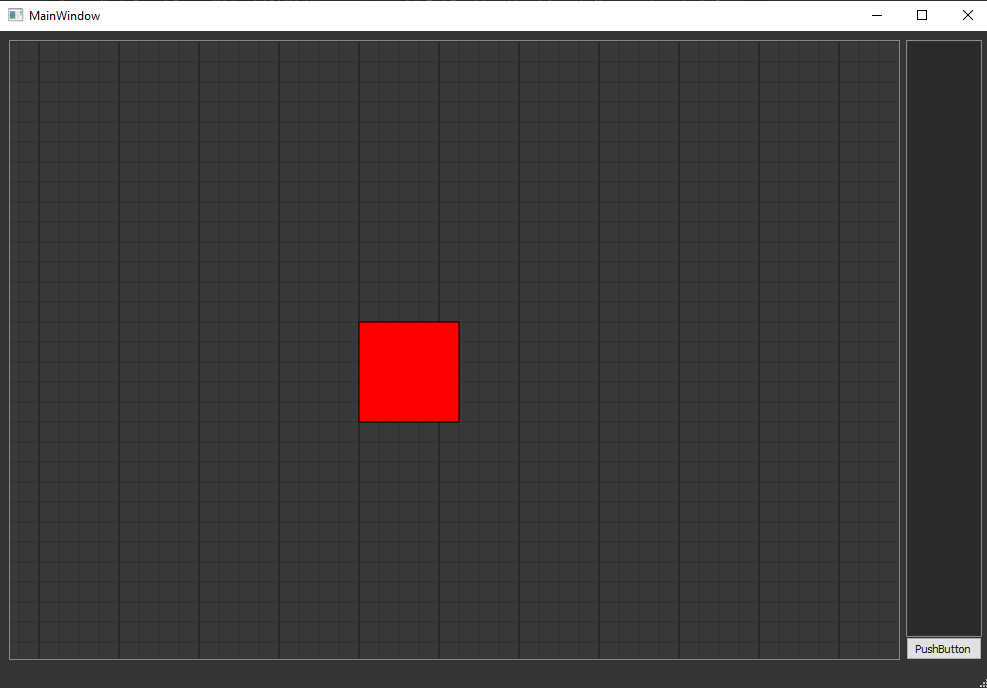
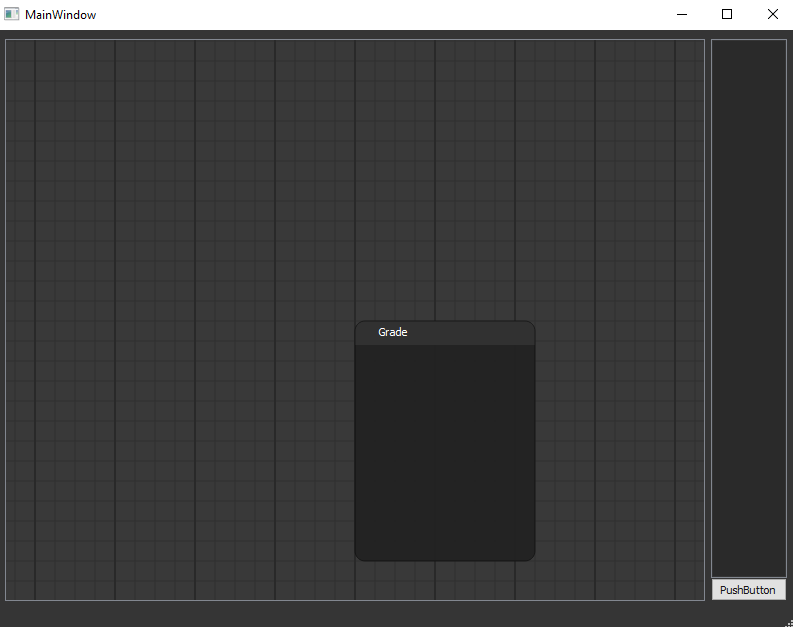
add node

diff --git a/app/widgets/node_graphics.py b/app/widgets/node_graphics.py
@@ -1,0 +1,88 @@
+from PyQt5.QtWidgets import *
+from PyQt5.QtCore import *
+from PyQt5.QtGui import *
+
+
+class QGraphicNode(QGraphicsItem):
+
+    def __init__(self, node, title="Node Graphics Item", parent=None):
+        super().__init__(parent)
+
+        self.width = 180
+        self.height = 240
+        self.edge_size = 10.0
+        self.angle_rect = 10.0
+        self.title_height = 24
+        self.padding = 20.0
+
+        self._pen_default = QPen(QColor("#7F000000"))
+        self._pen_selected = QPen(QColor("#FFFFA637"))
+
+        self.brush_title = QBrush(QColor("#FF313131"))
+        self.brush_backg = QBrush(QColor("#E3212121"))
+
+        self.title_item = None
+        self._title = title
+        self.title_color = Qt.white
+
+
+        self.initUi()
+
+    def initUi(self):
+        self.initTitle()
+        self.setFlag(QGraphicsItem.ItemIsSelectable)
+        self.setFlag(QGraphicsItem.ItemIsMovable)
+
+    def initTitle(self):
+        self.title_item = QGraphicsTextItem(self)
+        self.title_item.setDefaultTextColor(self.title_color)
+        self.title_item.setPlainText(self._title)
+        self.title_item.setPos(self.padding, 0)
+        self.title_item.setTextWidth(self.width - 2 * self.padding)
+        
+    @property
+    def title(self):
+        return self._title
+
+    @title.setter
+    def title(self, value):
+        self._title = value
+        self.title_item.setPlainText(self._title)
+
+    def boundingRect(self):
+        return QRectF(
+            0,
+            0,
+            2 * self.edge_size + self.width,
+            2 * self.edge_size + self.height
+        ).normalized()
+
+    def paint(self, painter, option, widget, QWidget=None):
+
+        # title
+        path_title = QPainterPath()
+        path_title.setFillRule(Qt.WindingFill)
+        path_title.addRoundedRect(0, 0, self.width, self.title_height, self.edge_size, self.edge_size)
+        path_title.addRect(0, self.title_height - self.edge_size, self.edge_size, self.edge_size)
+        path_title.addRect(self.width - self.edge_size, self.title_height - self.edge_size, self.edge_size, self.edge_size)
+        painter.setPen(Qt.NoPen)
+        painter.setBrush(self.brush_title)
+        painter.drawPath(path_title.simplified())
+
+        # content
+        path_content = QPainterPath()
+        path_content.setFillRule(Qt.WindingFill)
+        path_content.addRoundedRect(0, self.title_height, self.width, self.height - self.title_height, self.edge_size, self.edge_size)
+        path_content.addRect(0, self.title_height, self.edge_size, self.edge_size)
+        path_content.addRect(self.width - self.edge_size, self.title_height, self.edge_size, self.edge_size)
+        painter.setPen(Qt.NoPen)
+        painter.setBrush(self.brush_backg)
+        painter.drawPath(path_content.simplified())
+
+        # outline
+        path_outline = QPainterPath()
+        path_outline.addRoundedRect(0, 0, self.width, self.height, self.edge_size, self.angle_rect)
+        painter.setPen(self._pen_default if not self.isSelected() else self._pen_selected)
+        painter.setBrush(Qt.NoBrush)
+        painter.drawPath(path_outline.simplified())
+

diff --git a/app/widgets/nodegraphwidget.py b/app/widgets/nodegraphwidget.py
@@ -1,15 +1,14 @@
-from PyQt5.QtWidgets import QGraphicsView, QGraphicsScene, QGraphicsItem
-from PyQt5.QtCore import Qt, QEvent
+from PyQt5.QtWidgets import QGraphicsView, QGraphicsItem
+from PyQt5.QtCore import Qt
 from PyQt5.QtGui import *
 
-from app.widgets.nodegraphscenewidget import NodeGraphSceneWidget
+from app.nodes.node_obj import Node
+from app.nodes.node_scene import Scene
 
 
 class NodeGraphWidget(QGraphicsView):
     def __init__(self, parent=None):
         super().__init__(parent)
-
-        scene = NodeGraphSceneWidget(self)
 
         self.zoom_in_factor = 1.25
         self.zoom_clamp = False
@@ -17,15 +16,20 @@ class NodeGraphWidget(QGraphicsView):
         self.zoom_step = 1
         self.zoom_range = [0, 20]
 
-        self.setScene(scene)
+        self.scene = Scene()
+
+        node = Node(self.scene, "Grade")
+
+        self.setScene(self.scene.grScene)
         self.initUi()
 
-        rect_item = scene.addRect(0, 0, 100, 100)
-        rect_item.setBrush(Qt.red)
-        rect_item.setFlag(QGraphicsItem.ItemIsMovable)
+        # rect_item = self.grScene.addRect(0, 0, 100, 100)
+        # rect_item.setBrush(Qt.red)
+        # rect_item.setFlag(QGraphicsItem.ItemIsMovable)
 
     def initUi(self):
-        self.setRenderHints(QPainter.Antialiasing | QPainter.HighQualityAntialiasing | QPainter.TextAntialiasing | QPainter.SmoothPixmapTransform)
+        self.setRenderHints(
+            QPainter.Antialiasing | QPainter.HighQualityAntialiasing | QPainter.TextAntialiasing | QPainter.SmoothPixmapTransform)
         self.setViewportUpdateMode(QGraphicsView.FullViewportUpdate)
         self.setHorizontalScrollBarPolicy(Qt.ScrollBarAlwaysOff)
         self.setVerticalScrollBarPolicy(Qt.ScrollBarAlwaysOff)
@@ -53,6 +57,7 @@ class NodeGraphWidget(QGraphicsView):
 
     def middleMouseButtonPress(self, event):
         return super().mousePressEvent(event)
+
     def middleMouseButtonRelease(self, event):
         return super().mousePressEvent(event)
 

diff --git a/app/widgets/nodegraphscenewidget.py b/app/widgets/nodegraphscenewidget.py
@@ -4,8 +4,10 @@ from PyQt5 import QtCore, QtGui, QtWidgets
 
 class NodeGraphSceneWidget(QtWidgets.QGraphicsScene):
 
-    def __init__(self, parent=None):
+    def __init__(self, scene, parent=None):
         super().__init__(parent)
+
+        self.scene = scene
 
         self.grid_size = 20
         self.grid_square = 4
@@ -19,15 +21,15 @@ class NodeGraphSceneWidget(QtWidgets.QGraphicsScene):
         self._pen_dark = QtGui.QPen(self._color_dark)
         self._pen_dark.setWidth(2)
 
-        self.scene_width, self.scene_height = 64000, 64000
-        self.setSceneRect(
-            -self.scene_width // 2,
-            -self.scene_height // 2,
-            self.scene_width,
-            self.scene_height
-        )
-
         self.setBackgroundBrush(self._color_bck)
+
+    def setGrScene(self, width, height):
+        self.setSceneRect(
+            -width // 2,
+            -height // 2,
+            width,
+            height
+        )
 
     def drawBackground(self, painter, rect):
         super().drawBackground(painter, rect)

diff --git a/app/nodes/node_scene.py b/app/nodes/node_scene.py
@@ -1,0 +1,31 @@
+from app.widgets.nodegraphscenewidget import NodeGraphSceneWidget
+
+
+class Scene(object):
+
+    def __init__(self):
+        self.grScene = None
+
+        self.nodes = []
+        self.edges = []
+
+        self.scene_width = 64000
+        self.scene_height = 64000
+
+        self.initUi()
+
+    def initUi(self):
+        self.grScene = NodeGraphSceneWidget(self)
+        self.grScene.setGrScene(self.scene_width, self.scene_height)
+
+    def addNode(self, node):
+        self.nodes.append(node)
+
+    def addEdge(self, edge):
+        self.edges.append(edge)
+
+    def removeNode(self, node):
+        self.nodes.remove(node)
+
+    def removeEdge(self, edge):
+        self.edges.remove(edge)

diff --git a/app/nodes/node_obj.py b/app/nodes/node_obj.py
@@ -1,0 +1,16 @@
+from app.widgets.node_graphics import QGraphicNode
+
+
+class Node(object):
+
+    def __init__(self, scene, title="Undefined Node"):
+        self.scene = scene
+        self.title = title
+
+        self.grNode = QGraphicNode(self, self.title)
+
+        self.scene.addNode(self)
+        self.scene.grScene.addItem(self.grNode)
+
+        self.inputs = []
+        self.outputs = []

diff --git a/app/launcher.py b/app/launcher.py
@@ -1,9 +1,8 @@
 import os
-import json
-from PyQt5 import QtCore, QtGui, QtWidgets
+from PyQt5 import QtWidgets
 
 from ressources.style import style
-from widgets.main_window import AssetManagerWindow
+from app.nodes.main_window import AssetManagerWindow
 
 SCRIPT_PATH = os.path.dirname(__file__)
 
